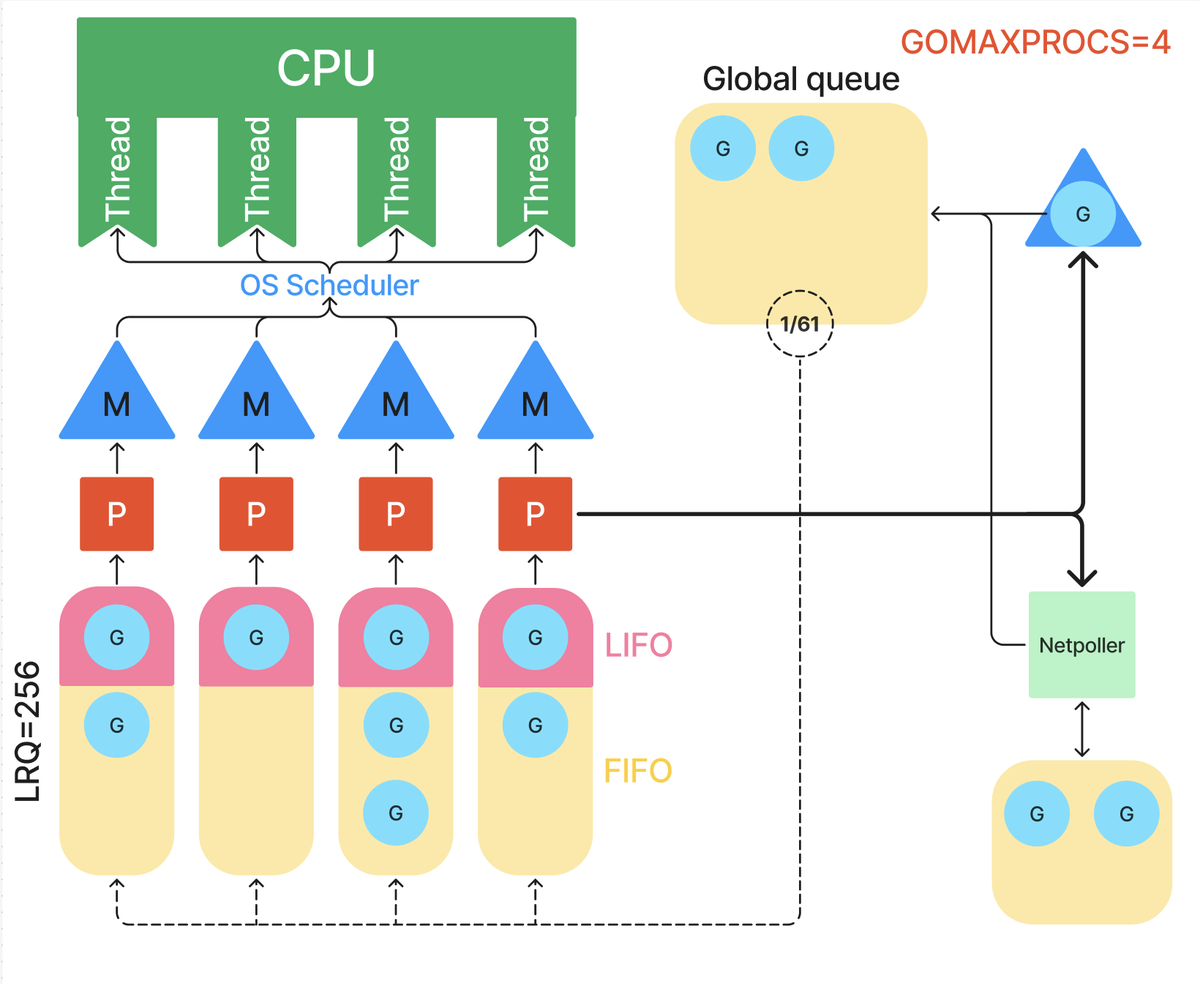
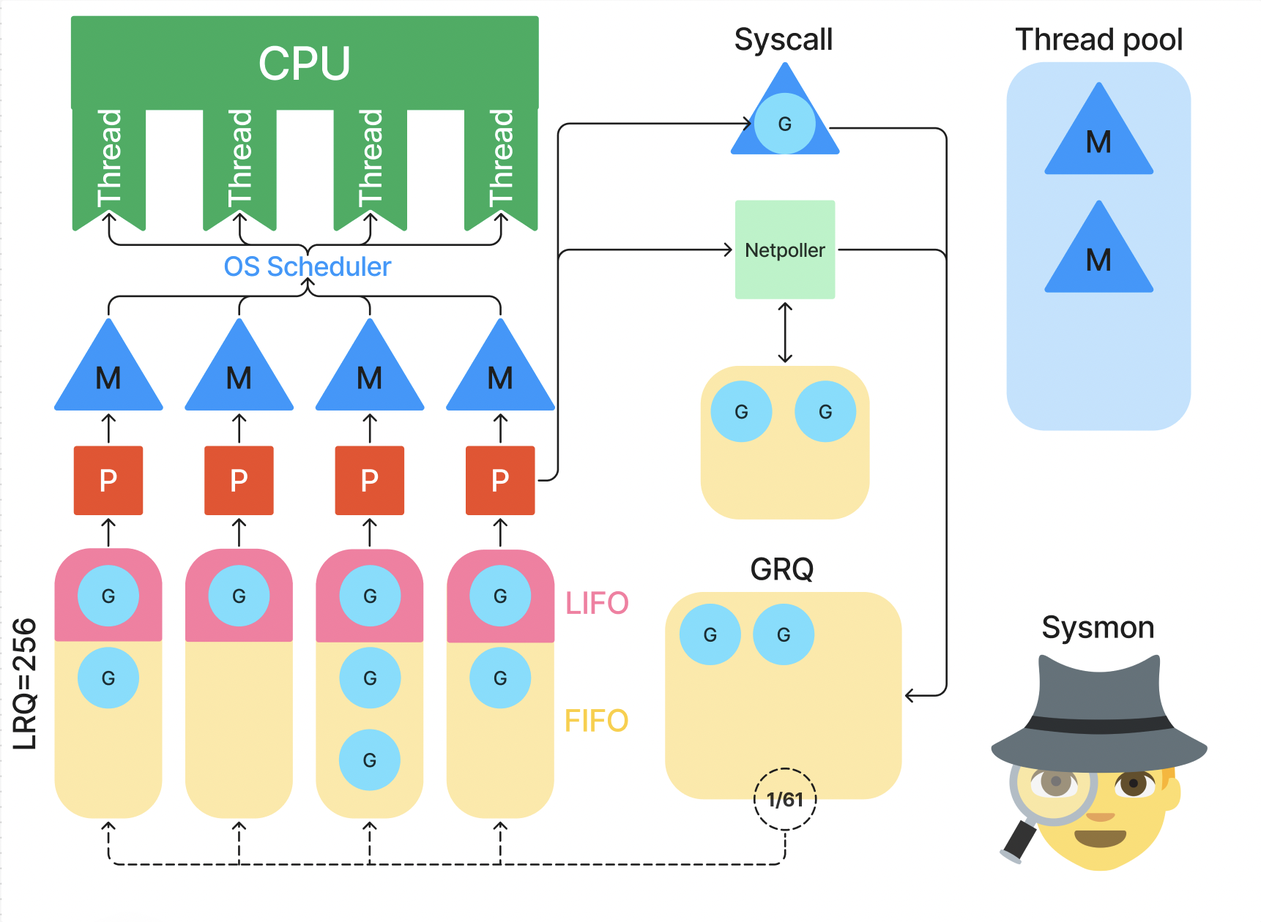
Update 5 files
- Main/Base/operating-systems.md
 - Main/goroutines-and-channels.md
   - Main/goroutines-and-channels.png
 - Main/oop-in-go/_index.md
 - Main/slice.md

diff --git a/Main/goroutines-and-channels.md b/Main/goroutines-and-channels.md
@@ -7,11 +7,11 @@ title: Goрутины и каналы (доделать)
 
 Лично мне проще понимать, как что-то использовать, когда я знаю, как это устроено внутри, такой подход позволяет избегать множества не очевидных, но весьма простых ошибок. А так как я тут пишу материал в первую очередь от себя и для себя, то будь по-моему.
 
-Поэтому сначала поглядим на планировщик, а только после этого поковыряем примеры.
+Поэтому сначала поглядим на планировщик, а только после этого поковыряем примеры кода с горутинками.
 
 Не бойся, я постараюсь как можно нагляднее и проще тебе рассказать про то, как горутинки исполняются в рантайме.
 
-**Стоп!** Тут некоторые могут понимать примерно, что такое рантайм, но не представлять его предметно, хотя это было бы кстати для изучения работы планировщика, ща быстренько исправим.
+**Стоп!** Тут некоторые могут слабо представлять, что из себя представляет рантам, хотя это было бы кстати для изучения работы планировщика, ща быстренько исправим.
 
 :::info:true Что такое Runtime, зачем нужен, из чего состоит
 
@@ -91,7 +91,11 @@ title: Goрутины и каналы (доделать)
 
 Сам runtime языка описан здесь: <https://github.com/golang/go/tree/master/src/runtime>
 
+:::danger 
+
 Я где-то могу ошибаться, ты просто добавляй **issue** с указанием ошибки и со ссылкой на **правильный** материал.
+
+:::
 
 ## Что такое горутина?
 
@@ -103,13 +107,13 @@ title: Goрутины и каналы (доделать)
 
 Вот есть **поток процессора**. Он вполне себе физический, а не абстрактный, так как предоставляет для исполнения инструкций физические юниты.
 
-Есть **поток ОС** (системный поток), который уже является упаковкой для процесса, такая вот абстракция на уровне ядра ОС, которая может исполняться на потоке процессора (исполняя процесс) и управляется планировщиком ОС.
+Есть **поток ОС** (системный поток), который уже является упаковкой для процесса, такая вот абстракция на уровне ядра ОС, которая может исполняться на потоке процессора (исполняя процесс). Системный поток управляется планировщиком ОС.
 
 А есть **горутитна** - легковесный поток, работающий именно внутри рантайма Go, ОС про него ничего не знает, да и горутина не является системным потоком, а всего лишь абстракция на уровне рантайма Go, которая может исполняться на потоке ОС и управляется планировщиком Go. А планировщик Go переключает контекст горутин внутри потока ОС так же, как планировщик ОС переключает контекст потоков ОС внутри потока процессора.
 
 Получается вот такие вот 2 слоя абстракции над потоками процессора.
 
-Горутина исполняется **конкурентно** (**НЕ ПАРАЛЛЕЛЬНО!)**, при этом объявляется горутина ключевым словом `go` перед функцией, но сама горутина – не  функция!
+Горутина исполняется в первую очередь **конкурентно** (**НЕ ПАРАЛЛЕЛЬНО!)**, при этом объявляется горутина ключевым словом `go` перед функцией, но сама горутина – не  функция!
 
 :::note 
 
@@ -117,13 +121,21 @@ title: Goрутины и каналы (доделать)
 
 :::
 
-**Горутина** - это структура, которая содержит в себе необходимые ресурсы для исполнения кода той функции, перед которой поставили  ключевое слово `go`. Состав структуры горутины довольно широкий, в коде его можно посмотреть вот [тут](https://github.com/golang/go/blob/e9a500f47dadcd73c970649a1072d28997617610/src/runtime/runtime2.go), но самое главное, что там есть **адрес первой инструкции функции** и **стек.**
+**Горутина** - это структура внутри рантайма, которая содержит в себе необходимые ресурсы для исполнения кода той функции, перед которой поставили  ключевое слово `go`. Состав структуры горутины довольно широкий, в коде его можно посмотреть вот [тут](https://github.com/golang/go/blob/e9a500f47dadcd73c970649a1072d28997617610/src/runtime/runtime2.go), но самое главное, что там есть **адрес первой инструкции функции** и **стек.**
 
 **Почему горутину постоянно называют легковесным потоком?** Всё потому что стек горутины динамический!
 
 **Минимальный** размер стека горутины аж **2 Кб,** а **максимальный** зависит от разрядности системы: до **1 Гб** для 64 разрядных или до **250 Мб** для 32 разрядных. Однако реальное ограничение может быть меньше в зависимости от конфигурации среды исполнения и других факторов
 
-Системные же потоки имеют **фиксированный** размер, для Windows размер стека обычно 1 МБ. В Linux размер стека для потоков, как правило, составляет от 2 до 10 МБ, в зависимости от дистрибутива и настроек ядра.
+Системные же потоки имеют **фиксированный** размер, для Windows размер стека обычно 1 МБ. В Linux размер стека для потоков, как правило, составляет от 2 до 8 МБ, в зависимости от дистрибутива и настроек ядра.
+
+Горутина может находиться в трех (основных) состояниях:
+
+-  **Waiting:** В этом состоянии, горутина бездействует. Например встает на паузу для операции с каналами или блокировками, либо может быть остановлена системным вызовом.
+
+-  **Runnable:** Горутина готова к тому чтобы быть исполненной, но еще не исполняется. Она ожидает своей очереди на системном потоке.
+
+-  **Running:** Горутина исполняется на системном потоке. Это будет продолжаться, пока работа не будет выполнена, или до тех пор, пока ее не прервет планировщик, либо что‑то еще ее не заблокирует.
 
 ## Планировщик
 
@@ -133,7 +145,11 @@ title: Goрутины и каналы (доделать)
 
 **M (Machine)** -- это системный поток, который выполняет код горутин.
 
-**M** всегда связан с виртуальной структурой **P** (Processor), которая управляет очередью горутин.
+Обычное Go приложение может использовать до 10 000 потоков.
+
+Если вы выйдете за рамки этого лимита, есть риск того, что приложение крашнется.
+
+Так же, стоит помнить о том, что потоки переиспользуются, так как создание и удаление потока -- ресурсоемкие операции.
 
 ### **Processor**
 
@@ -157,12 +173,98 @@ title: Goрутины и каналы (доделать)
 
 Когда горутинка попадает в LRQ, она сначает в LIFO часть очереди, но место там только для одной горутины, поэтому остальные попавшие в очередь горутины вытесняют оттуда первую горутинку и в LIFO остаётся **последняя вошедшая** в LRQ горутина. Остальные попадают в FIFO.  Поэтому из очереди исолняется **сначала последняя вошедшая** горутина, а **затем в порядке очереди**.
 
-**А нужно это вот по какой причине:** довольно большой шанс, что последняя вошедная в очередь горутина уже исполнялась, потом прервалась, а теперь снова попала в очередь. А значит скорее всего данные этой горутинки уже закешированы в процессоре, что даст последней вошедшей горутинке значительно сократить время восстановления контекста и продолжить выполнение с минимальной задержкой, чем если бы она исполнилась в порядке очереди. Это суммарно уменьшает время исполнения всех горутин.
+Например вот код:
 
-Когда появляется свободный поток (**M**), планировщик Go выбирает одну или несколько горутин из очереди **P** и назначает их для выполнения на этом потоке.
+```go
+package main
 
-### Процесс работы горутины
+import (
+	"fmt"
+	"runtime"
+	"sync"
+)
+
+func main() {
+	runtime.GOMAXPROCS(1)
+
+	wg := sync.WaitGroup{}
+	
+	for i := 0; i < 5; i++ {
+		wg.Add(1)
+		go func(i int) {
+			defer wg.Done()
+			fmt.Println(i)
+		}(i)
+	}
+
+	wg.Wait()
+}
+```
+
+Вывод по выше описанным причинам будет такой:
+
+```
+4
+0
+1
+2
+3
+```
+
+**А нужно это вот по какой причине:** довольно большой шанс, что последняя вошедная в очередь горутина уже исполнялась, потом прервалась, а теперь снова попала в очередь. А значит скорее всего данные этой горутинки уже закешированы в процессоре, что даст последней вошедшей горутинке значительно сократить время восстановления контекста и продолжить выполнение с минимальной задержкой, чем если бы она исполнилась в порядке очереди. Это суммарно уменьшает время исполнения всех горутин.
+
+У **LRQ** есть **вместительность**, обычно она составляет **256 горутин**.
+
+### Процесс работы горутины, модель GMP
 
 ![](./goroutines-and-channels.png)
 
-Например, мы создали горутинку, она планировщиком назначается какому-то P и кладётся в его LRQ.
+#### GMP, LRQ, GRQ
+
+Например, мы создали горутинку, она планировщиком назначается какому-то процессору **P** и кладётся в очередь **LRQ,** принадлежащую этому процессору **P**.
+
+**P –** по сути менеджер, он решает вопросы распределения ресурсов своей очереди, **P** всегда должен быть привязан к какому-то потоку **M**, в который он уже кладёт  горутинки.
+
+Вот и нашей горутинке процессор **P** велел идти исполняться на системном потоке **M,** за которым закреплён этот **P.**
+
+Когда квант времени горутины завершается или горутина блокируется, поток **M** сохраняет её контекст  в структуру данных горутины, а горутинка отправляется обратно в **LRQ**, если там есть местно, конечно. Если ни в одном **LRQ** места нет, горутинка вынуждена проследовать в глобальную очередь **GRQ** (Global Run Queue).
+
+#### Системный вызов
+
+Горутина может выполнить **системный вызов**. Если ничего не знаешь про них, крайне рекомендую почитать в разделе “**База**”, в статье “**Операционные системы**”!
+
+В случае системного вызова системный поток переходит в режим ядра, а планировщик Go знать не знает, что там происходит внутри и как скоро поступит ответ. А пока не поступит ответ на вызов, поток будет заблокирован, а остальные горутинки будут ждать, пока поток разблокируется. Чтобы избежать такого ожидания, у планировщика есть хитрые механизмы управления такими ситуациями.
+
+Когда горутина исполняет системный вызов (например, чтение данных с диска или сетевую операцию), Go планировщик **не сразу** отвязывает **M** поток от **P** процессора. Он ожидает, что этот вызов будет **короткоживущим** (short-lived syscall), и не хочет тратить ресурсы на перераспределение задач. Это сделано для оптимизации -- если вызов действительно быстро завершится, то перепривязывать ресурсы не имеет смысла.
+
+Если системный вызов **затягивается**, и поток долго остаётся заблокированным, вмешивается новый персонаж, фоновый поток – **sysmon**. Он обнаруживает, что поток **M** «застрял» на системном вызове и инициирует **отвязку** этого потока от процессора **P**. И затем для процессора **P** либо берётся новый поток **M** из пула потоков, либо, если в пуле пусто, создаётся новый, чтобы горутинки в его очереди могли спокойно исполняться.
+
+:::info 
+
+В Go **sysmon** (системный монитор) -- это фоновый системный поток, который играет важную роль в управлении временем выполнения программы. Он отвечает за мониторинг и оптимизацию работы горутин, планировщика, сборщика мусора и системных ресурсов.
+
+:::
+
+Как только горутина получит ответ на системный вызов, исполняясь на отвязанном потоке, горутина, может **вернуться** **обратно** в ~~Коноху~~ свою родную очередь **LRQ** к своему родному процессору **P, но только если поток M, связанный с процессором** **P не выолняет системный вызов и есть место в LRQ!** Иначе горутинка отправляется в **глобальную очередь GRQ.**
+
+А поток, на котором исполнялась эта горутинка, отправляется в **Tread Pool** (пул потоков).
+
+Пул потоков нужен, чтобы не пересоздавать потоки, потому что это довольно дорого, вместо этого планировщик старается переиспользовать уже созданные потоки, для этого свободные потоки хранятся в пуле потоков.
+
+#### Сетевой вызов
+
+Если горутина выполняет сетевой вызов, например HTTP запрос, то горутинка приостанавливается и отвязывается от **P**, перемещаясь в структуру планировщика, которая называется **список приостановленных горутин**, попутно регистрируясь в **netpoller** для ожидания события ввода-вывода.
+
+Когда **netpoller** получает сигнал от системы, что ожидаемое событие произошло (например, данные готовы для чтения), он уведомляет планировщик. Планировщик Go затем извлекает горутину из списка ожидания и снова ставит её в **LRQ** для выполнения на одном из логических процессоров **P**. Если ни в одном **LRQ** места нет, горутинка вынуждена проследовать в глобальную очередь **GRQ.**
+
+**Netpoller** позволяет Go эффективно управлять сетевыми запросами, не блокируя системные потоки.
+
+В зависимости от операционной системы, **Netpoller** использует разные механизмы:
+
+-  На Linux -- это **epoll**.
+
+-  На macOS и BSD-системах -- **kqueue**.
+
+-  На Windows -- это **IOCP** (I/O Completion Port)
+
+

diff --git a/Main/Base/operating-systems.md b/Main/Base/operating-systems.md
@@ -311,7 +311,21 @@ title: Операционные системы
 
 **Одновременно процессором может исполняться не больше потоков ОС, чем доступных потоков процессора (логических ядер)!**
 
-Но ведь у нас постоянно запущено в ОС огромное количество процессов, как тогда они все исоплняются на компьютере, да ещё и одновременно? Тут влетает с двух ног планировщик.
+Но ведь у нас постоянно запущено в ОС огромное количество процессов, как тогда они все исоплняются на компьютере, да ещё и одновременно? Тут влетает с двух ног планировщик. Но про него ниже.
+
+#### **Состояния потоков** **(Thread States)**:
+
+-  **Waiting**. Поток остановлен и ждет чего-то, чтобы продолжить. Это может быть по причинам, связанным с железом (диск), операционной системой (системные вызовы) или с вызовами синхронизаций (атомарные, мьютексы). Эти типы задержек являются основной причиной низкой производительности.
+
+-  **Runnable**. Потоку требуется время на ядре, чтобы он мог выполнять назначенные ему машинные инструкции. Если у нас много потоков, которым нужно время, то им придется ждать дольше, чтобы получить это время. Кроме того, индивидуальное количество времени, которое получает каждый конкретный поток, сокращается, поскольку большее количество потоков конкурирует за время. Этот тип задержки планирования также может быть причиной низкой производительности.
+
+-  **Executing**. Поток размещен на ядре и выполняет свои машинные инструкции.
+
+#### **Типы выполняемой работы** **(Types Of Work)**:
+
+-  **CPU-Bound**. Это работа, которая никогда не создает ситуации, где поток может быть помещен в состояние ожидания. Пример: вычисление числа pi до n-й цифры является CPU-Bound работой.
+
+-  **I/O-Bound**. Это работа, которая заставляет потоки входить в состояние ожидания. Как пример, работа, которая заключается в запросе доступа к ресурсу по сети или совершении системных вызовов в операционную систему. Поток, которому необходимо получить доступ к базе данных, будет выполнять I/O-Bound работу.
 
 ### Так как понять разницу между процессом и потоком?
 
@@ -355,7 +369,7 @@ title: Операционные системы
 
 **Второй процессор** (с двумя потоками) делает всё тоже самое, но теперь он может выполнять не 4 задачи в одном потоке, а пустить в один поток 2 задачи, а во второй поток другие 2 задачи, что позволяет выделять каждой задаче **больше** процессорного времени.
 
-Вторым процессором задачи выполняются не только **конкурентно**, но и **параллельно**, выполняя больше работы за единицу времени (в нашем случае 1 сек), чем однопоточный процессор.
+Вторым процессором задачи выполняются не только **конкурентно**, но и **параллельно**, выполняя больше работы за единицу времени (в нашем случае 1 сек), чем однопоточный процессор. Это называется **конкурентный параллелизм**.
 
 ### **Состояние гонки**
 

diff --git a/Main/slice.md b/Main/slice.md
@@ -313,28 +313,28 @@ fmt.Println(slc1 == nil, slc2 == nil) // false, true
 ### Copy()
 
 ```go
-slc1 := make([]int, 5, 100)
+slc1 := make([]int, 5, 100) // [0 0 0 0 0]
 
-slc2 := []int{1, 2, 3, 4, 5, 6}
+slc2 := []int{1, 2, 3, 4, 5, 6} // [1 2 3 4 5 6]
 
-slc3 := make([]int, 3)
+slc3 := make([]int, 3) // [0 0 0]
 
-slc4 := []int{7, 7 ,7, 7}
+slc4 := []int{7, 7 ,7, 7} // [7 7 7 7]
 
 copy(slc1, slc2) // копируем в слайс slc1 элементы slc2
 
-copy(slc2, slc3)
+copy(slc2, slc3) // копируем в слайс slc2 элементы slc3
 
-num := copy(slc3, slc4)
+num := copy(slc3, slc4) // копируем в слайс slc3 элементы slc4
 
 fmt.Println(slc1, slc2, num) // [1 2 3 4 5] [0 0 0 4 5 6] 3
 ```
 
 Как видно из нашего примера, при копировании элементов одного слайса в другой, они вставляютя в начало целевого слайса, **ограничиваясь размером целевого слайса.**
 
-Это хорошо видно по переменной `num`, при присваивании значения функции `copy()` какой-то переменной, записывается количество скопированных элементов, и не смотря на то, что в `slc4` у нас хранится 4 элемента, скопировалось всего 3, так как длина целевого слайса всего 3
+Это хорошо видно по переменной `num`, при присваивании значения функции `copy()` какой-то переменной, этой переменной записывается количество скопированных элементов, и не смотря на то, что в `slc4` у нас хранится 4 элемента, скопировалось всего 3, так как длина целевого слайса всего 3 (`slc3 := make([]int, 3)`)
 
-Даже если ёмкость слайса больше длины копируемого слайса, мы ограничиваемся именно длиной целевого слайса!
+Даже если ёмкость целевого слайса больше длины копируемого слайса, мы ограничиваемся именно **длиной (len)** целевого слайса!
 
 А при копировании слайса с длиной меньше целевого, заменяются элементы в интервале от 0 до последнего элемента копируемого слайса.
 

diff --git a/Main/oop-in-go/_index.md b/Main/oop-in-go/_index.md
@@ -23,7 +23,7 @@ title: ООП в Go
 
 **Оператор упаковки** (многоточие) перед аргументом означает, что метод является **вариативной функцией,** то есть может в себя принимать произвольное количество аргументов. Из определения оператора упаковки можно понять, что эти аргументы куда-то запакуются. Очевидно, они образуют слайс целевого типа данных.
 
-Есть ещё **оператор распаковки**, он пишется после имени переменной, например, когда мы хотим добавить в слайс элементы другого слайса. Мы не можем просто прибавить слайс через функцию **append()**, мы сначала его должны распаковать:
+Есть ещё **оператор распаковки (spread operator)**, он пишется после имени переменной, например, когда мы хотим добавить в слайс элементы другого слайса. Мы не можем просто прибавить слайс через функцию **append()**, мы сначала его должны распаковать:
 
 ```go
 slc1 := []int{0, 1, 2, 3}
